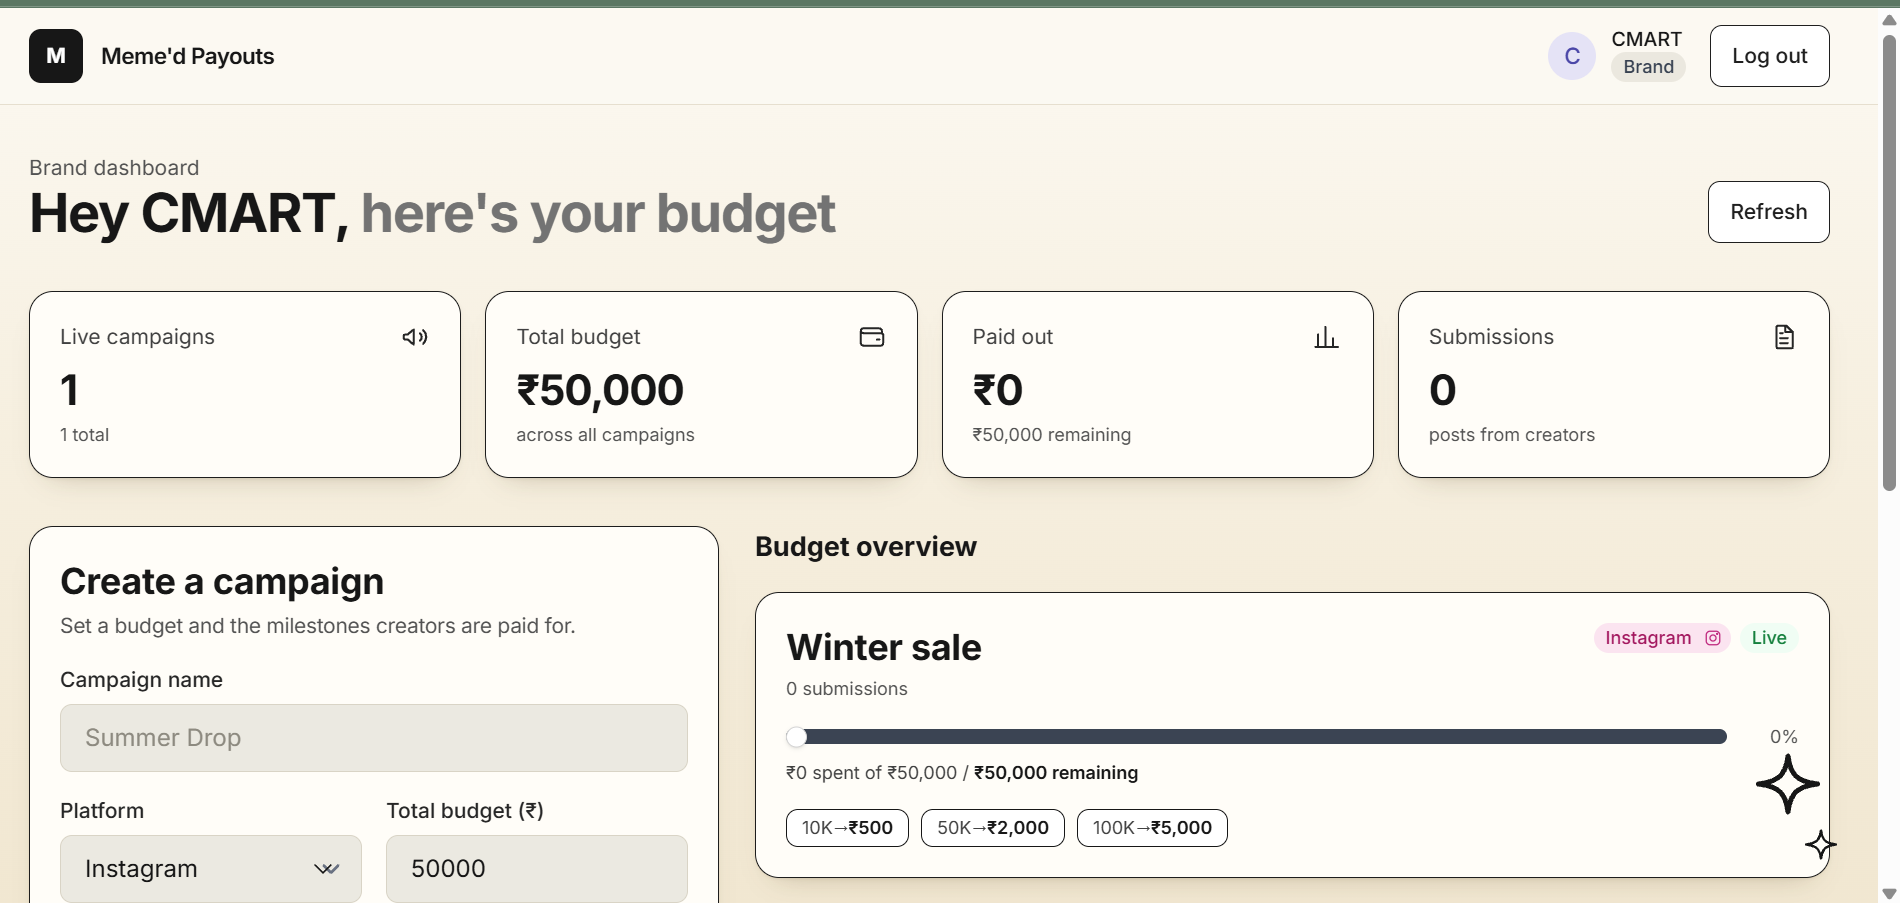
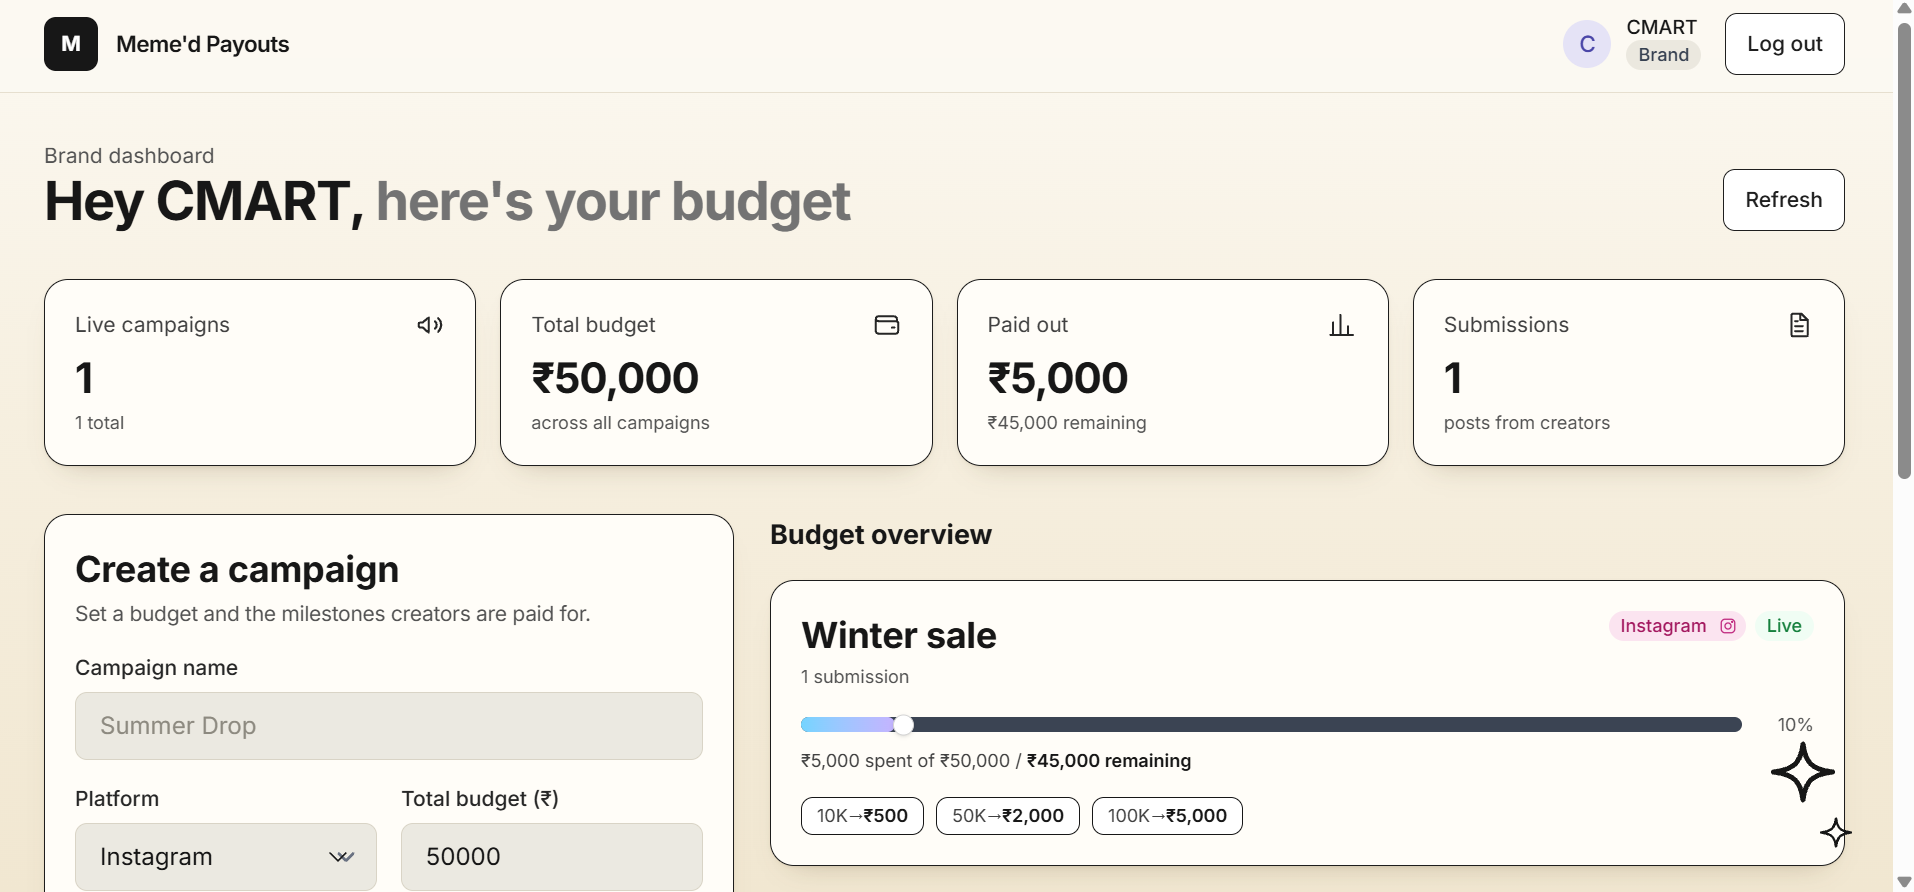
final changes to readme , fully polished

diff --git a/README.md b/README.md
@@ -8,6 +8,16 @@ Creator marketplace app: brands create campaigns with a budget and a milestone l
 
 > The backend is on Render's free tier, so the first request after idle can take ~50 seconds (cold start). Open the `/health` link once to wake it before testing.
 
+## Submission Checklist
+| Requirement | Where |
+|---|---|
+| Public GitHub repo, monorepo with `/backend` and `/frontend` | [Project Structure](#project-structure) |
+| README with setup steps | [Setup (local)](#setup-local-without-docker) and [Run with Docker](#run-with-docker) |
+| Environment variable info | [Environment Variables](#environment-variables) |
+| Assumptions made | [Assumptions (open cases)](#assumptions-open-cases) |
+| Sample `.env.example` | [`backend/.env.example`](backend/.env.example) and [`frontend/.env.example`](frontend/.env.example) |
+| Deployed live link | [Live Links](#live-links) |
+
 ## Screenshots
 
 ### Login
@@ -83,6 +93,23 @@ Copy `.env.example` to `.env` (backend) or `.env.local` (frontend).
 | NEXT_PUBLIC_API_URL | frontend | No | Backend base URL **including `/api`** (default `http://localhost:4000/api`) |
 
 The backend validates env vars with Zod at startup and exits with a clear message if a required one is missing.
+
+### Sample `.env.example`
+`backend/.env.example`
+```env
+NODE_ENV=development
+PORT=4000
+MONGO_URI=mongodb://localhost:27017/memed
+JWT_SECRET=replace-with-a-long-random-string
+JWT_EXPIRES_IN=7d
+CORS_ORIGIN=http://localhost:3000
+# REDIS_URL=redis://localhost:6379   # optional
+```
+
+`frontend/.env.example`
+```env
+NEXT_PUBLIC_API_URL=http://localhost:4000/api
+```
 
 ## How Payouts Work
 `calculatePayout(views, ladder, alreadyPaid, remainingBudget) -> { payout, newTotalPaid }`
